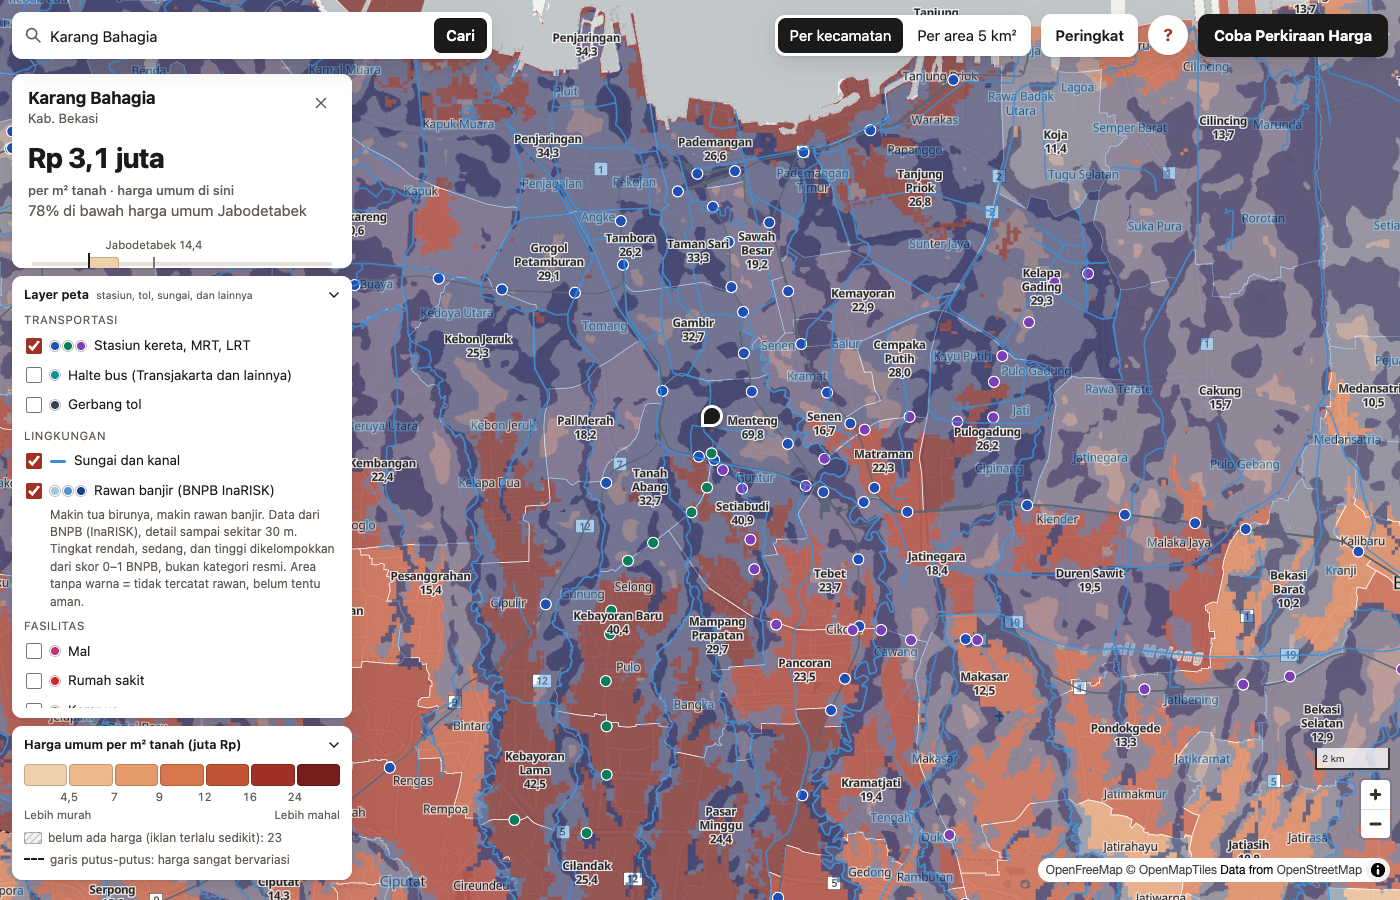
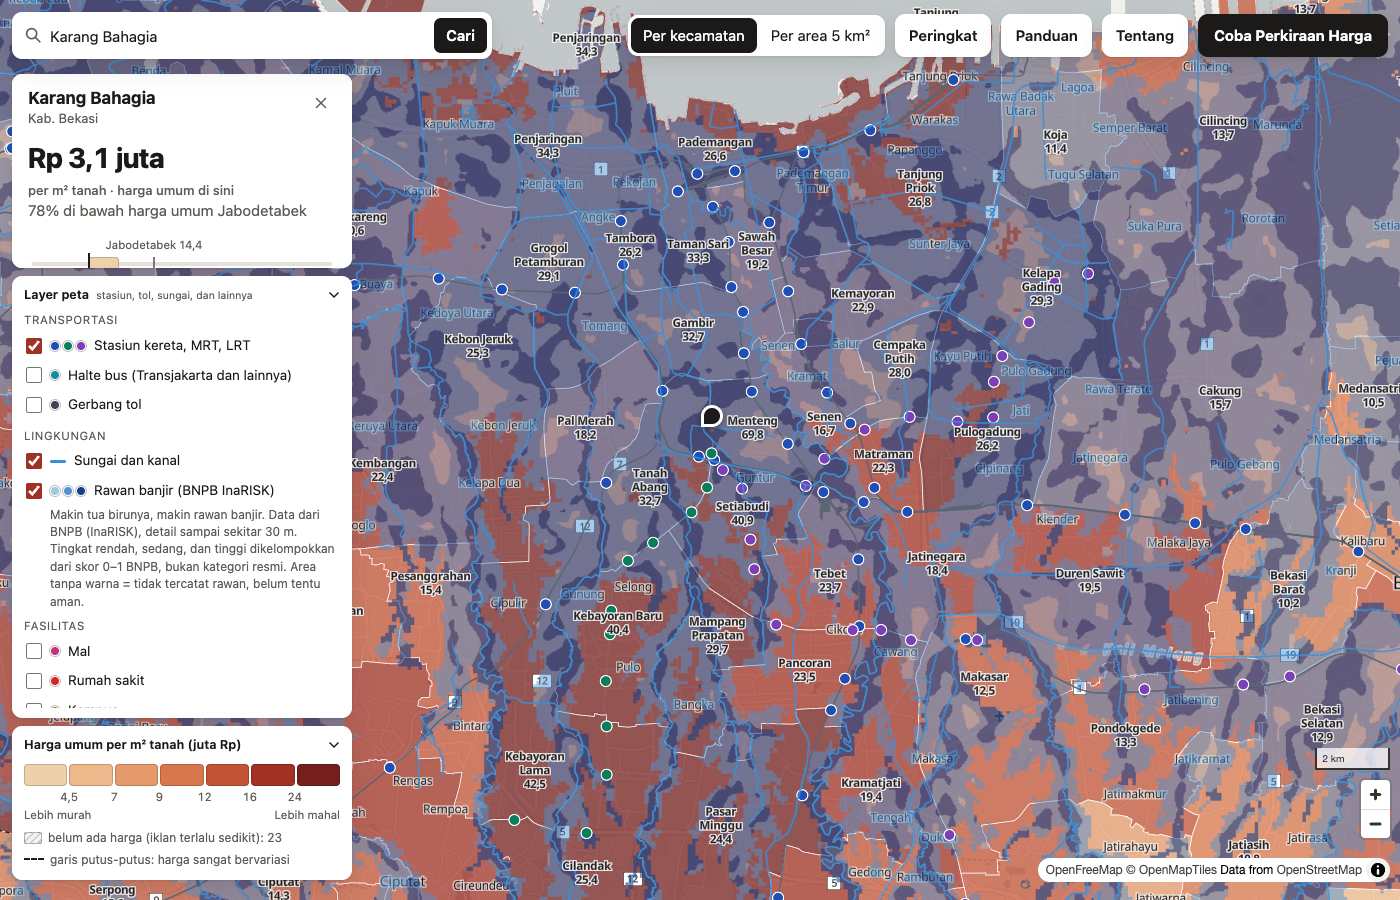
Update from the private repo at c3ccf12

Changed region(s): [[0.43, 0.0, 0.86, 0.0622]]

diff --git a/web/app.js b/web/app.js
@@ -1,5 +1,5 @@
 import { CONFIG } from "./config.js";
-import { affordability, classLabels, compareAsk, edgeLabel, factorLine, errorMessage, millions, parseRupiah, perM2, perM2Range, rp, rpRange, versusMedian, WARNINGS } from "./format.mjs";
+import { affordability, classLabels, compareAsk, distanceLabel, edgeLabel, factorLine, nearest, errorMessage, millions, parseRupiah, perM2, perM2Range, rp, rpRange, versusMedian, WARNINGS } from "./format.mjs";
 import { readShared, shareQuery } from "./share.mjs";
 import { BBOX, geocoderUrl, matchAreas, parsePlaces } from "./search.mjs";
 
@@ -38,7 +38,7 @@ $("about-min").textContent = meta.min_listings;
 $("about-error").textContent = pct(meta.model.holdout_median_error);
 
 // ---- map
-const map = new maplibregl.Map({ container: "map", style: STYLE, bounds: [[106.35, -6.80], [107.30, -5.95]], fitBoundsOptions: { padding: isPhone() ? { top: 130, left: 12, right: 12, bottom: 110 } : { top: 70, left: 20, right: 20, bottom: 20 } },
+const map = new maplibregl.Map({ container: "map", style: STYLE, bounds: [[106.35, -6.80], [107.30, -5.95]], fitBoundsOptions: { padding: isPhone() ? { top: 175, left: 12, right: 12, bottom: 110 } : { top: 70, left: 20, right: 20, bottom: 20 } },
   attributionControl: { compact: true }, maxBounds: [[105.8, -7.4], [107.9, -5.5]] });
 window.__map = map; // handles for the end-to-end test (tests/e2e.mjs)
 window.__state = state;
@@ -411,9 +411,9 @@ document.addEventListener("click", (e) => { if (!$("search").contains(e.target))
 // keep the map's visible centre clear of the open panel, so a pin is never hidden behind it
 function fitPadding() {
   if (!state.estimateOpen) return map.easeTo({ padding: { top: 0, bottom: 0, left: 0, right: 0 }, duration: 300 });
-  map.easeTo({ padding: isPhone() ? { top: 110, bottom: Math.round(window.innerHeight * 0.6), left: 0, right: 0 } : { top: 0, bottom: 0, left: 0, right: 410 }, duration: 300 });
+  map.easeTo({ padding: isPhone() ? { top: 160, bottom: Math.round(window.innerHeight * 0.6), left: 0, right: 0 } : { top: 0, bottom: 0, left: 0, right: 410 }, duration: 300 });
 }
-const syncPanels = () => document.body.classList.toggle("panel-open", state.estimateOpen || !$("rank").hidden);
+const syncPanels = () => document.body.classList.toggle("panel-open", state.estimateOpen || !$("rank").hidden || !$("about").hidden);
 function showStep(n) {
   state.step = n;
   document.querySelectorAll("#form .step").forEach((section) => { section.hidden = Number(section.dataset.step) !== n; });
@@ -441,6 +441,7 @@ $("form").addEventListener("invalid", (e) => {
 function openEstimate() {
   dismissWelcome();
   closeRank();
+  closeAbout();
   state.estimateOpen = true;
   $("estimate").hidden = false;
   syncPanels();
@@ -508,6 +509,7 @@ function resultCard(r, landArea) {
   card.append(askBlock(r));
   const why = whyBlock(r);
   if (why) card.append(why);
+  if (state.point) card.append(nearbyBlock(state.point));
   const feature = kecamatan.features.find((f) => f.properties.name === r.area.kecamatan && (!r.area.city || f.properties.city === r.area.city))
     ?? kecamatan.features.find((f) => f.properties.name === r.area.kecamatan);
   const props = feature?.properties;
@@ -590,6 +592,7 @@ function buildRank() {
 function openRank(tab = "rank") {
   dismissWelcome();
   setTab(tab);
+  closeAbout();
   if (state.estimateOpen) closeEstimate();
   $("rank").hidden = false;
   syncPanels();
@@ -603,6 +606,24 @@ function closeRank() {
 }
 $("open-rank").addEventListener("click", () => ($("rank").hidden ? openRank() : closeRank()));
 $("close-rank").addEventListener("click", closeRank);
+
+// ---- the about panel: sources, method and limits, kept out of the estimate form
+function openAbout() {
+  dismissWelcome();
+  closeRank();
+  if (state.estimateOpen) closeEstimate();
+  $("about").hidden = false;
+  syncPanels();
+  $("open-about").setAttribute("aria-expanded", "true");
+  if (isPhone()) $("area").hidden = true;
+}
+function closeAbout() {
+  $("about").hidden = true;
+  syncPanels();
+  $("open-about").setAttribute("aria-expanded", "false");
+}
+$("open-about").addEventListener("click", () => ($("about").hidden ? openAbout() : closeAbout()));
+$("close-about").addEventListener("click", closeAbout);
 $("rank-city").addEventListener("change", (e) => { rank.city = e.target.value; buildRank(); });
 $("rank-sort").addEventListener("click", (e) => {
   const sort = e.target.dataset?.sort;
@@ -735,20 +756,20 @@ const COLORS = { krl: "#1f4fb4", mrt: "#0a7d5a", lrt: "#7b3fb8", busway: "#0f8f9
 const KIND_LABEL = { krl: "Stasiun kereta", mrt: "Stasiun MRT", lrt: "Stasiun LRT", busway: "Halte Transjakarta", bus: "Halte bus", toll: "Gerbang tol", mall: "Mal", hospital: "Rumah sakit", university: "Kampus" };
 const dot = (min, a, b, c, d) => ({ minzoom: min, paint: { "circle-radius": ["interpolate", ["linear"], ["zoom"], 9, a, 11, b, 14, c, 16, d], "circle-stroke-color": "#ffffff", "circle-stroke-width": 1.2 } });
 const STATION_COLOR = ["match", ["get", "kind"], "krl", COLORS.krl, "mrt", COLORS.mrt, "lrt", COLORS.lrt, "#555555"];
-const place = (key, label, kind) => ({ key, group: "Fasilitas", label, swatches: [COLORS[kind]], layers: [{ id: key, file: "layer_places", type: "circle", filter: ["==", ["get", "kind"], kind], poi: true, ...dot(9.5, 2, 3.5, 5.5, 7), color: COLORS[kind] }] });
+const place = (key, label, kind) => ({ key, group: "Fasilitas", label, swatches: [COLORS[kind]], layers: [{ id: key, file: "layer_places", type: "circle", filter: ["==", ["get", "kind"], kind], poi: true, ...dot(7, 2, 3.5, 5.5, 7), color: COLORS[kind] }] });
 const LAYER_DEFS = [
   { key: "stations", group: "Transportasi", label: "Stasiun kereta, MRT, LRT", swatches: [COLORS.krl, COLORS.mrt, COLORS.lrt], layers: [
-    { id: "rail", file: "layer_rail", type: "line", minzoom: 8.5, paint: { "line-color": "#5b6573", "line-width": 1.3, "line-opacity": 0.8 } },
-    { id: "stations", file: "layer_stations", type: "circle", poi: true, ...dot(8.5, 4, 5, 7, 9), color: STATION_COLOR },
+    { id: "rail", file: "layer_rail", type: "line", minzoom: 7, paint: { "line-color": "#5b6573", "line-width": 1.3, "line-opacity": 0.8 } },
+    { id: "stations", file: "layer_stations", type: "circle", poi: true, ...dot(7, 4, 5, 7, 9), color: STATION_COLOR },
     { id: "names", file: "layer_stations", type: "symbol", minzoom: 12, layout: { "text-field": ["get", "name"], "text-font": ["Noto Sans Bold"], "text-size": 11.5, "text-offset": [0, 1], "text-anchor": "top", "text-max-width": 8 },
       paint: { "text-color": "#1c1a18", "text-halo-color": "rgba(255,255,255,0.92)", "text-halo-width": 1.5 } } ] },
-  { key: "busway", group: "Transportasi", label: "Halte bus (Transjakarta dan lainnya)", swatches: [COLORS.busway], layers: [{ id: "busway", file: "layer_busway", type: "circle", poi: true, ...dot(9, 1.6, 2.6, 4.2, 6), color: COLORS.busway }] },
-  { key: "toll", group: "Transportasi", label: "Gerbang tol", swatches: [COLORS.toll], layers: [{ id: "toll", file: "layer_toll", type: "circle", poi: true, ...dot(8.5, 3, 4.5, 6, 8), color: COLORS.toll }] },
-  { key: "rivers", group: "Lingkungan", label: "Sungai dan kanal", swatches: [COLORS.river], line: true, layers: [{ id: "rivers", file: "layer_rivers", type: "line", minzoom: 8.5,
+  { key: "busway", group: "Transportasi", label: "Halte bus (Transjakarta dan lainnya)", swatches: [COLORS.busway], layers: [{ id: "busway", file: "layer_busway", type: "circle", poi: true, ...dot(7, 1.6, 2.6, 4.2, 6), color: COLORS.busway }] },
+  { key: "toll", group: "Transportasi", label: "Gerbang tol", swatches: [COLORS.toll], layers: [{ id: "toll", file: "layer_toll", type: "circle", poi: true, ...dot(7, 3, 4.5, 6, 8), color: COLORS.toll }] },
+  { key: "rivers", group: "Lingkungan", label: "Sungai dan kanal", swatches: [COLORS.river], line: true, layers: [{ id: "rivers", file: "layer_rivers", type: "line", minzoom: 7,
     paint: { "line-color": COLORS.river, "line-opacity": 0.85, "line-width": ["interpolate", ["linear"], ["zoom"], 9, 0.8, 14, 2.6] } }] },
   { key: "flood", group: "Lingkungan", label: "Rawan banjir (BNPB InaRISK)", swatches: ["#9ecae1", "#4f93d1", "#12418a"],
     note: "Makin tua birunya, makin rawan banjir. Data dari BNPB (InaRISK), detail sampai sekitar 30 m. Tingkat rendah, sedang, dan tinggi dikelompokkan dari skor 0–1 BNPB, bukan kategori resmi. Area tanpa warna = tidak tercatat rawan, belum tentu aman.",
-    layers: [{ id: "flood", image: "layer_flood", type: "raster", minzoom: 8.5, paint: { "raster-opacity": 1 } }] },
+    layers: [{ id: "flood", image: "layer_flood", type: "raster", minzoom: 7, paint: { "raster-opacity": 1 } }] },
   place("mall", "Mal", "mall"), place("hospital", "Rumah sakit", "hospital"), place("university", "Kampus", "university"),
 ];
 const layerId = (def, layer) => `lyr-${def.key}-${layer.id}`;
@@ -853,8 +874,8 @@ for (const input of document.querySelectorAll("#form input[type=number]")) {
 function whyBlock(r) {
   if (!r.factors?.length) return null;
   const box = el("details", "why"), list = el("ul");
-  box.append(el("summary", "", "Apa yang bikin harganya segitu?"));
-  box.append(el("p", "hint", "Dibanding rumah biasa di Jabodetabek (yang paling umum di data iklan kami), ini yang paling menaikkan atau menurunkan perkiraan harga per m² tanah:"));
+  box.append(el("summary", "", "Apa yang memengaruhi harga ini?"));
+  box.append(el("p", "hint", "Dibanding rumah rata-rata di Jabodetabek, ini hal-hal yang paling mendorong perkiraan harga per m² tanah naik atau turun:"));
   for (const factor of r.factors) {
     const line = factorLine(factor), item = el("li"), name = el("span", "name");
     name.append(el("b", "", line.label), ...(line.hint ? [el("small", "", line.hint)] : []));
@@ -863,7 +884,32 @@ function whyBlock(r) {
   }
   box.append(list);
   if (r.factors.some((f) => f.code === "notes" && Math.abs(f.effect) >= 0.25)) box.append(el("p", "hint warn", "Catatanmu berpengaruh besar di perkiraan ini. Tulis fakta tentang rumahnya saja (kondisi, fasilitas), bukan kata-kata promosi."));
-  box.append(el("p", "hint", "Ini gambaran kasar. Faktor-faktor ini saling berkaitan, jadi persennya tidak bisa dijumlahkan."));
+  box.append(el("p", "hint", "Ini gambaran kasar. Hal-hal ini saling berkaitan, jadi pengaruhnya tidak bisa dijumlahkan."));
+  return box;
+}
+
+// ---- what is close to the pin: the nearest toll gates, stations and bus stops, only those within a walkable or drivable range
+const NEARBY = [
+  { file: "layer_toll", title: "Gerbang tol terdekat", maxM: 5000, mergeM: 1000, none: "Tidak ada gerbang tol dalam 5 km" },
+  { file: "layer_stations", title: "Stasiun terdekat (KRL, MRT, LRT)", maxM: 5000, mergeM: 300, none: "Tidak ada stasiun dalam 5 km" },
+  { file: "layer_busway", title: "Halte bus terdekat", maxM: 1000, mergeM: 200, none: "Tidak ada halte bus dalam 1 km" },
+];
+const layerData = new Map();
+const loadLayer = (file) => { if (!layerData.has(file)) layerData.set(file, fetch(`data/${file}.geojson`).then((res) => res.json()).catch(() => { layerData.delete(file); return null; })); return layerData.get(file); };
+function nearbyBlock(point) {
+  const box = el("div", "nearby");
+  box.append(el("h4", "", "Terdekat dari lokasi ini"));
+  Promise.all(NEARBY.map((n) => loadLayer(n.file))).then((all) => {
+    NEARBY.forEach((n, i) => {
+      if (!all[i]) return;
+      const found = nearest(all[i].features, point.lat, point.lon, n), group = el("div", "near-group");
+      group.append(el("b", "", n.title));
+      if (!found.length) group.append(el("p", "hint", n.none));
+      else { const list = el("ul"); found.forEach((p) => { const li = el("li"); li.append(el("span", "", p.name || KIND_LABEL[p.kind] || "Tanpa nama"), el("b", "", distanceLabel(p.metres))); list.append(li); }); group.append(list); }
+      box.append(group);
+    });
+    if (box.children.length > 1) box.append(el("p", "hint", "Jarak lurus dari pin, bukan jarak lewat jalan. Yang lebih jauh dari batas di atas tidak ditampilkan."));
+  });
   return box;
 }
 

diff --git a/web/index.html b/web/index.html
@@ -28,7 +28,8 @@
       <button type="button" data-view="h3" aria-pressed="false" title="Kotak area sekitar 5 km², lebih rinci dari kecamatan">Per area 5 km²</button>
     </div>
     <button type="button" id="open-rank" class="bar-btn" aria-expanded="false" aria-controls="rank" title="Peringkat harga daerah">Peringkat</button>
-    <button type="button" id="help" class="round" aria-label="Cara memakai peta ini" aria-controls="welcome" aria-expanded="false">?</button>
+    <button type="button" id="help" class="bar-btn" aria-controls="welcome" aria-expanded="false" title="Cara memakai peta ini">Panduan</button>
+    <button type="button" id="open-about" class="bar-btn" aria-expanded="false" aria-controls="about" title="Sumber data, cara kerja, dan batasannya">Tentang</button>
     <button type="button" id="open-estimate" class="primary" aria-expanded="false" aria-controls="estimate">Coba Perkiraan Harga</button>
   </header>
 
@@ -158,18 +159,24 @@
       </section>
     </form>
     <div id="result" role="status" aria-live="polite"></div>
-    <details class="about">
-      <summary>Tentang peta dan perkiraan ini</summary>
-      <p>Peta ini dibuat dari sekitar <span id="about-listings">4.000</span> iklan rumah dijual di sebuah portal properti Indonesia (<span id="about-window"></span>).
-        Warna menunjukkan harga umum per m² tanah di tiap daerah, yaitu harga di tengah-tengah: separuh iklan lebih murah, separuh lebih mahal.
-        Daerah dengan iklan kurang dari <span id="about-min">5</span> belum diberi harga. Data per iklan tidak dipublikasikan.</p>
-      <p>Perkiraan harga dihitung komputer dari lokasi, ukuran rumah, jarak ke transportasi, dan catatanmu. "Harga" di sini adalah harga di iklan, bukan harga jual sebenarnya.
-        Dalam pengujian, perkiraan biasanya meleset sekitar <span id="about-error"></span> dari harga iklan, jadi anggap sebagai gambaran awal.
-        Tanah di atas 300 m² dan daerah dengan iklan sedikit lebih susah ditebak.</p>
-      <p>Data peta © kontributor OpenStreetMap, © OpenMapTiles lewat OpenFreeMap. Layer stasiun, halte, tol, sungai, mal, rumah sakit, dan kampus juga dari OpenStreetMap (lisensi ODbL), dan bisa belum lengkap. Layer rawan banjir dari BNPB InaRISK (detail sekitar 30 m). Tingkat rendah, sedang, dan tinggi dikelompokkan dari skor 0–1 BNPB, bukan kategori resmi, dan area tanpa warna belum tentu aman. Sebelum beli rumah, cek juga langsung ke lokasi dan di peta resmi BNPB.</p>
-      <p>Data rumah dan catatan yang kamu isi dikirim ke server kami hanya untuk menghitung perkiraan, dan tidak disimpan. Kalau kamu mencari alamat, teksnya dikirim ke layanan pencarian OpenStreetMap (Nominatim). Batas wilayah: BIG. Rawan banjir: BNPB InaRISK.
-        <a href="https://github.com/rlukafiardi/jabodetabek-house-price-showcase">Cara kerja, hasil, dan kode</a>.</p>
-    </details>
+  </aside>
+
+  <aside id="about" hidden aria-labelledby="about-title">
+    <div class="head">
+      <h2 id="about-title">Tentang peta dan perkiraan ini</h2>
+      <button type="button" id="close-about" class="icon" aria-label="Tutup">
+        <svg aria-hidden="true" viewBox="0 0 20 20" width="18" height="18"><path d="m5 5 10 10M15 5 5 15" stroke="currentColor" stroke-width="1.8" stroke-linecap="round"/></svg>
+      </button>
+    </div>
+    <p>Peta ini dibuat dari sekitar <span id="about-listings">4.000</span> iklan rumah dijual di sebuah portal properti Indonesia (<span id="about-window"></span>).
+      Warna menunjukkan harga umum per m² tanah di tiap daerah, yaitu harga di tengah-tengah: separuh iklan lebih murah, separuh lebih mahal.
+      Daerah dengan iklan kurang dari <span id="about-min">5</span> belum diberi harga. Data per iklan tidak dipublikasikan.</p>
+    <p>Perkiraan harga dihitung komputer dari lokasi, ukuran rumah, jarak ke transportasi, dan catatanmu. "Harga" di sini adalah harga di iklan, bukan harga jual sebenarnya.
+      Dalam pengujian, perkiraan biasanya meleset sekitar <span id="about-error"></span> dari harga iklan, jadi anggap sebagai gambaran awal.
+      Tanah di atas 300 m² dan daerah dengan iklan sedikit lebih susah ditebak.</p>
+    <p>Data peta © kontributor OpenStreetMap, © OpenMapTiles lewat OpenFreeMap. Layer stasiun, halte, tol, sungai, mal, rumah sakit, dan kampus juga dari OpenStreetMap (lisensi ODbL), dan bisa belum lengkap. Layer rawan banjir dari BNPB InaRISK (detail sekitar 30 m). Tingkat rendah, sedang, dan tinggi dikelompokkan dari skor 0–1 BNPB, bukan kategori resmi, dan area tanpa warna belum tentu aman. Sebelum beli rumah, cek juga langsung ke lokasi dan di peta resmi BNPB.</p>
+    <p>Data rumah dan catatan yang kamu isi dikirim ke server kami hanya untuk menghitung perkiraan, dan tidak disimpan. Kalau kamu mencari alamat, teksnya dikirim ke layanan pencarian OpenStreetMap (Nominatim). Batas wilayah: BIG. Rawan banjir: BNPB InaRISK.
+      <a href="https://github.com/rlukafiardi/jabodetabek-house-price-showcase">Cara kerja, hasil, dan kode</a>.</p>
   </aside>
 
   <script src="https://unpkg.com/maplibre-gl@5.24.0/dist/maplibre-gl.js" integrity="sha384-5+cfbwT0iiub6VsQAdn6yz16nr6sDiQoHx6tm4O8OVYXHYOxcffFmCJBL0dgdvGp" crossorigin="anonymous" defer></script>

diff --git a/web/style.css b/web/style.css
@@ -59,7 +59,7 @@ button { font: inherit; color: inherit; cursor: pointer; }
 #welcome .fine { margin-top: 12px; font-size: 12.5px; color: var(--muted); }
 
 /* floating panels */
-#area, #estimate, #legend, #layers, #rank { position: absolute; background: var(--panel); border-radius: var(--radius); box-shadow: var(--shadow); }
+#area, #estimate, #about, #legend, #layers, #rank { position: absolute; background: var(--panel); border-radius: var(--radius); box-shadow: var(--shadow); }
 #area { position: static; flex: 0 1 auto; min-height: 0; overflow: auto; padding: 14px 16px 16px; }
 #area[hidden] { display: none; }
 #area .top { display: flex; justify-content: space-between; gap: 8px; align-items: flex-start; }
@@ -119,10 +119,10 @@ button { font: inherit; color: inherit; cursor: pointer; }
 .swatch.mixed { border: 0; border-top: 2px dashed var(--ink); height: 0; width: 20px; border-radius: 0; }
 
 #rank { z-index: 6; right: 12px; top: calc(var(--bar) + 14px); bottom: 12px; width: 392px; display: flex; flex-direction: column; padding: 14px 16px 12px; }
-#estimate { z-index: 6; right: 12px; top: calc(var(--bar) + 14px); bottom: 12px; width: 392px; overflow: auto; padding: 14px 16px 18px; }
-#estimate .head, #rank .head { display: flex; justify-content: space-between; align-items: center; }
-#estimate h2, #rank h2 { font-size: 18px; }
-#rank[hidden], #rank [hidden] { display: none; }
+#estimate, #about { z-index: 6; right: 12px; top: calc(var(--bar) + 14px); bottom: 12px; width: 392px; overflow: auto; padding: 14px 16px 18px; }
+#estimate .head, #about .head, #rank .head { display: flex; justify-content: space-between; align-items: center; }
+#estimate h2, #about h2, #rank h2 { font-size: 18px; }
+#about[hidden], #rank[hidden], #rank [hidden] { display: none; }
 #rank-tabs { display: flex; gap: 2px; margin-top: 10px; padding: 3px; background: var(--hover); border-radius: var(--radius); }
 #rank-tabs button { flex: 1; border: 0; background: transparent; padding: 6px 4px; border-radius: 8px; font-weight: 600; font-size: 13.5px; white-space: nowrap; }
 #rank-tabs button[aria-selected="true"] { background: var(--ink); color: #fff; }
@@ -228,8 +228,7 @@ summary { cursor: pointer; color: var(--accent); }
 .share-link { margin-top: 6px; font-size: 12px; }
 .legend-line { display: flex; gap: 14px; margin-top: 10px; font-size: 12px; color: var(--muted); }
 .legend-line i { display: inline-block; width: 14px; height: 9px; margin-right: 5px; border-radius: 2px; border: 1px solid rgb(0 0 0 / .2); vertical-align: -1px; }
-.about { margin-top: 16px; font-size: 13px; color: var(--muted); }
-.about p { margin-top: 8px; }
+#about p { margin-top: 10px; font-size: 13.5px; color: var(--muted); }
 
 /* map pieces */
 .pin { width: 22px; height: 22px; border-radius: 50% 50% 50% 0; transform: rotate(-45deg); background: var(--ink); border: 3px solid #fff; box-shadow: 0 2px 6px rgb(0 0 0 / .4); }
@@ -239,12 +238,12 @@ summary { cursor: pointer; color: var(--accent); }
 @media (prefers-reduced-motion: reduce) { * { transition: none !important; } }
 
 @media (max-width: 800px) {
-  :root { --bar: 104px; }
+  :root { --bar: 156px; }
   #welcome { left: 8px; right: 8px; top: auto; width: auto; bottom: max(14px, env(safe-area-inset-bottom)); padding: 18px 16px 14px; }
   body.welcoming #open-estimate, body.panel-open #open-estimate { display: none; }
-  #views { flex: 1 1 0; min-width: 0; margin-left: 0; }
+  #views { flex: 1 1 100%; min-width: 0; margin-left: 0; }
   #views button { flex: 1; padding: 7px 4px; font-size: 13px; }
-  .bar-btn { padding: 10px 12px; }
+  .bar-btn { flex: 1; padding: 10px 8px; }
   #help { margin-left: 0; }
   #rank { left: 0; right: 0; top: auto; bottom: 0; width: auto; height: 62dvh; border-radius: 14px 14px 0 0; z-index: 7; }
   body.welcoming #open-rank { display: none; }
@@ -256,7 +255,7 @@ summary { cursor: pointer; color: var(--accent); }
   body.panel-open #left, body.welcoming #left { display: none; }
   #area { max-height: 42dvh; }
   .maplibregl-ctrl-bottom-right { display: none; } /* pinch zooms on a phone; the buttons would sit behind the legend */
-  #estimate { left: 0; right: 0; top: auto; bottom: 0; width: auto; max-height: 58dvh; border-radius: 14px 14px 0 0; z-index: 7; }
+  #estimate, #about { left: 0; right: 0; top: auto; bottom: 0; width: auto; max-height: 58dvh; border-radius: 14px 14px 0 0; z-index: 7; }
   .maplibregl-ctrl-top-right { top: 0; }
 }
 
@@ -279,6 +278,12 @@ summary { cursor: pointer; color: var(--accent); }
 .why { margin-top: 12px; }
 .why ul { list-style: none; margin: 6px 0; padding: 0; }
 .why li { display: flex; justify-content: space-between; gap: 10px; padding: 6px 0; border-bottom: 1px solid var(--line); }
+.nearby { margin-top: 14px; }
+.nearby h4 { font-size: 14px; }
+.near-group { margin-top: 8px; }
+.near-group ul { list-style: none; margin: 2px 0 0; padding: 0; }
+.near-group li { display: flex; justify-content: space-between; gap: 10px; padding: 3px 0; border-bottom: 1px solid var(--line); font-size: 13.5px; }
+.near-group li b { flex: none; font-weight: 650; }
 .why li b.up { color: #8a3a12; }
 .why li b.down { color: #1b4f9c; }
 .unit-chips { display: flex; gap: 6px; margin: -2px 0 8px; }

diff --git a/README.md b/README.md
@@ -30,13 +30,16 @@ people who have never seen the data, so it avoids statistics words and says what
 ![Flood hazard layer](reports/figures/site_flood.png)
 
 - **Estimate in three steps.** Place a pin (click, search, or the browser's location), describe the house, read the result: a price, the range it usually falls
-  in, and a bar that shows the wider possible range. Beside it: **what pushes the price up or down** compared with a typical house, a box to **compare an
-  ad price** with the estimate, and a **share link** that reopens the same estimate. Warnings (take-over listings, auctions, large plots) are plain
+  in, and a bar that shows the wider possible range. Beside it: **what pushes the price up or down** compared with a typical house (in words, "raises it a lot" or "lowers it a
+  little", because percentages were hard to read), the **nearest toll gates, stations and bus stops** with straight-line distances (only those within
+  5 km, or 1 km for bus stops, so a remote pin shows "none within 5 km" instead of a far one), a box to **compare an ad price** with the estimate, and a
+  **share link** that reopens the same estimate. Warnings (take-over listings, auctions, large plots) are plain
   sentences, and the form refuses impossible values (no negative rooms) with a message under the field.
 
 ![An estimate and what drives it](reports/figures/site_estimate.png)
 
-- **Phone first.** Panels become bottom sheets and the toolbar stays on one row. A browser test drives all of this in real Chrome, on a phone viewport too
+- **Guide and About.** A first-visit guide (reopened by "Panduan") and an About panel ("Tentang") with the sources, the method and the limits.
+- **Phone first.** Panels become bottom sheets. A browser test drives all of this in real Chrome, on a phone viewport too
   ([web/](web/)), and runs against the live site under its real security headers.
 
 ![The estimate sheet on a phone](reports/figures/site_phone.png)
